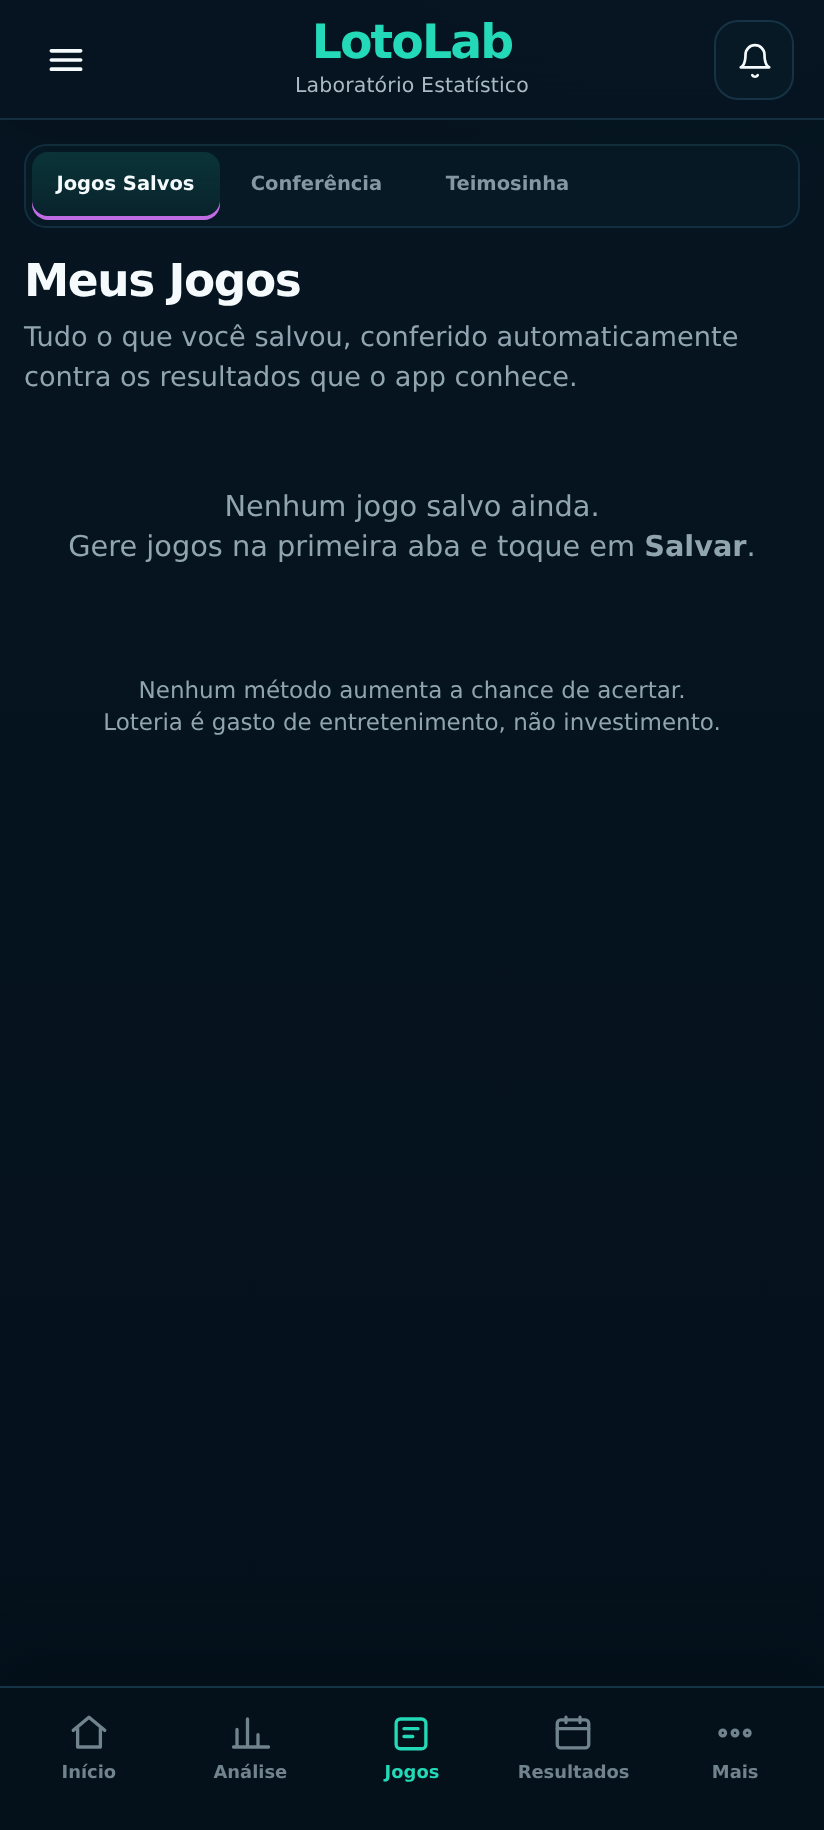
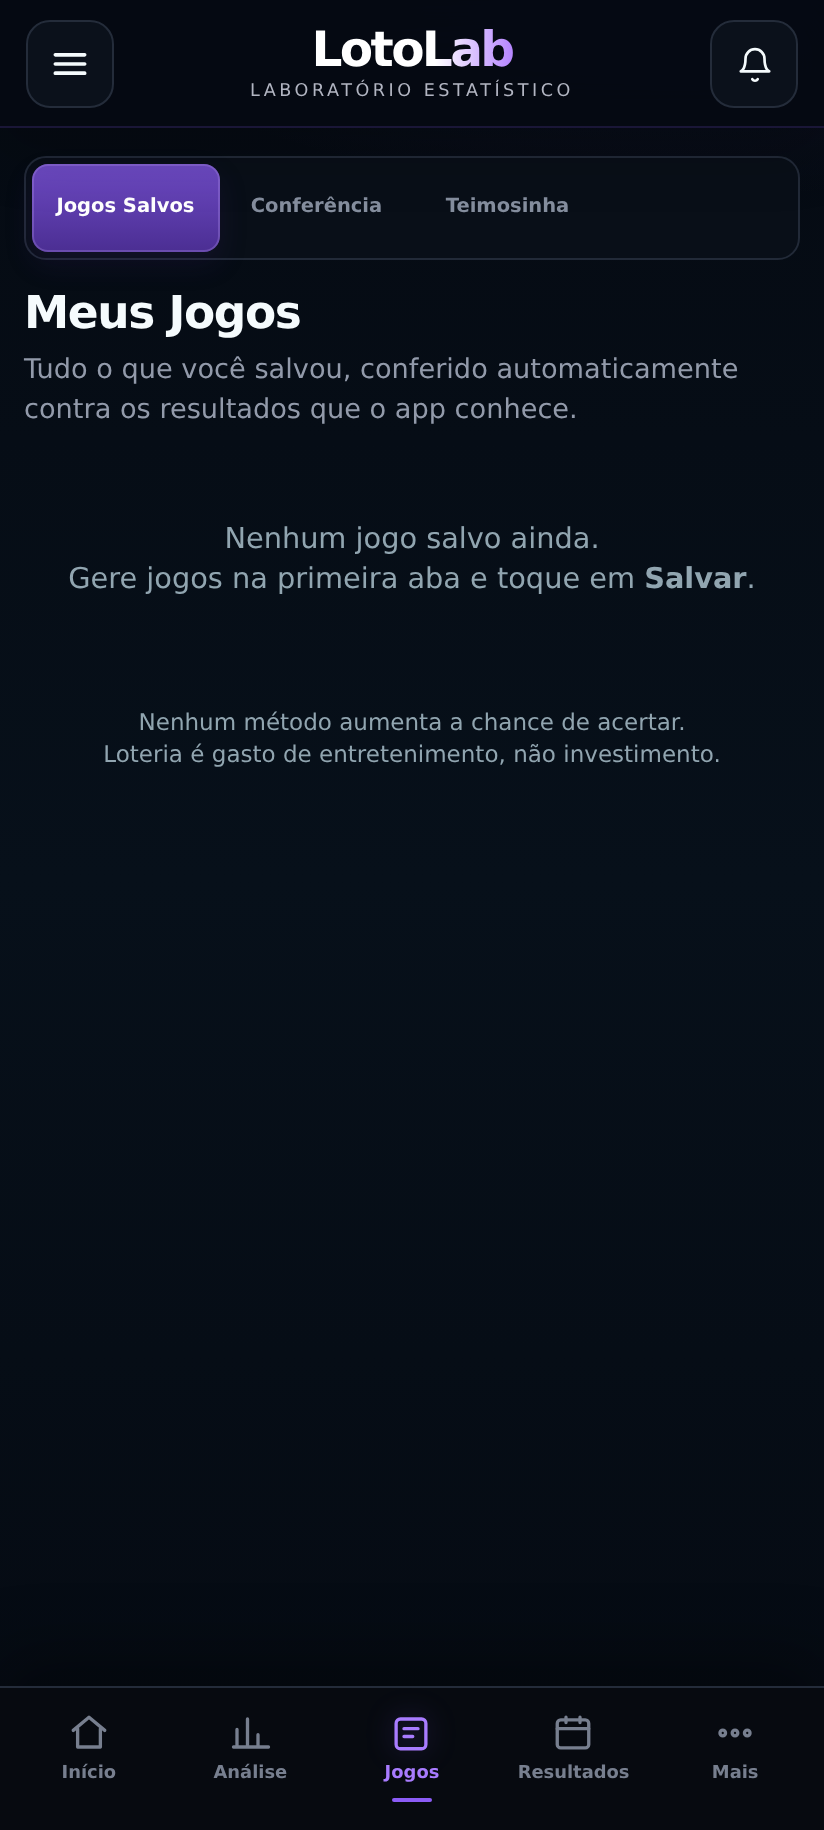
Refino V4.3 e a notificação de coincidência de volta (#58)
Refino da V4.3, só com CSS: o roxo volta a ser a identidade global (o acento
seguia a modalidade e repintava a interface inteira), foco de teclado visível
(devolvia outline:none), alvo de toque em 44px (estava entre 33 e 39px) e uma
escala única de raio de borda (havia quatro valores convivendo).

Duas correções precisaram de classe repetida: .hero-card .primary-btn e
.resumo .kpi têm especificidade maior e ganhavam mesmo com !important e vindo
depois na cascata.

Nova seção F10 cobrando a regra nas três larguras, mais o acento roxo, a cor de
contexto preservada nas oito modalidades e o anel de foco com Tab de verdade
pelo protocolo. Conferidos ao contrário.

Junto vai a notificação de coincidência, que eu tinha removido por engano da
edição estatística ao recortar os fluxos de aposta — é medida, não prêmio. E o
texto deixou de dizer "premiado": o app compara conjuntos guardados com
concursos publicados, não sabe se o bilhete foi comprado.

Motor 668/668 · interface 107/107 · dourada idêntica.

diff --git a/ui/lotolab-ui-v4-3.css b/ui/lotolab-ui-v4-3.css
@@ -160,3 +160,109 @@ select:focus,input:focus{border-color:rgba(139,92,246,.72)!important;box-shadow:
   .bola,.ball{width:31px!important;height:31px!important}
 }
 @media(prefers-reduced-motion:reduce){*{scroll-behavior:auto!important}}
+
+/* ====================================================================
+   V4.3 — refino
+   Quatro defeitos medidos na interface real, aos 360, 390 e 430px.
+   Nada aqui toca motor, dados ou fluxo: é folha de estilo.
+   ==================================================================== */
+
+/* 1. O ROXO VOLTA A SER A IDENTIDADE GLOBAL.
+
+   Medido: `--ll-mod`, que pinta acentos por toda a interface, nascia teal
+   (#24D9B7) e passava a valer a cor da modalidade escolhida — verde inteiro na
+   Mega-Sena, lilás inteiro na Lotofácil. Era a regra da V4.2, quando a cor da
+   modalidade era a identidade.
+
+   Na V4.3 a identidade é o roxo, e a cor da modalidade é contexto. Então o
+   acento global passa a ser roxo em qualquer modalidade, e a cor da modalidade
+   segue viva onde ela informa: no indicador, nas dezenas dos resultados e no
+   estado selecionado. É por isso que `--ll-chip` NÃO é tocado aqui. */
+:root,
+body:has([data-mod][aria-pressed="true"]){
+  --ll-mod:var(--ll43-purple)!important;
+  --ll-mod-soft:var(--ll43-purple-soft)!important;
+  --ll-mod-border:rgba(139,92,246,.46)!important;
+  --ll-mod-text:#CDB4FF!important;
+}
+
+/* 2. FOCO DE TECLADO VISÍVEL.
+
+   Medido: botão com foco devolvia `outline: none 0px` e `box-shadow: none` —
+   quem navega por teclado não tinha como saber onde estava. A bateria já
+   cobrava que o foco ALCANÇA os controles; não cobrava que ele APARECE.
+
+   :focus-visible, e não :focus, para o anel não piscar a cada toque no celular. */
+:where(button,a[href],input,select,textarea,[tabindex]):focus-visible{
+  outline:2px solid var(--ll43-purple)!important;
+  outline-offset:2px!important;
+  border-radius:10px;
+}
+
+/* 3. ALVO DE TOQUE DE 44px.
+
+   Medido nas três larguras: abas de segmento 34px, chips 33px, ".acao mini"
+   37px, ".acao-tela" 38px. Todos abaixo do mínimo confortável para o dedo.
+
+   min-height em vez de height: o conteúdo manda quando for maior, e nada
+   encolhe. Onde o elemento é pequeno por desenho — o ícone do cabeçalho —, o
+   alvo cresce sem o desenho crescer. */
+/* Classe repetida de propósito. A camada anterior fixa
+   `.primary-btn,.hero-card .primary-btn{min-height:37px!important}`, e o botão
+   da tela inicial FICA dentro de .hero-card — ou seja, o seletor que vale ali
+   tem especificidade (0,2,0) e ganha do meu (0,1,0), mesmo eu vindo depois e
+   também com !important. Repetir a classe empata a especificidade e a ordem
+   decide, que é o comportamento que eu esperava desde o começo.
+
+   Medido antes de escrever: o computado continuava 37px com a regra simples. */
+.acao.acao,.chip.chip,.primary-btn.primary-btn,
+.segmento button,.abas-seg button,.filtros button{
+  min-height:44px!important;
+}
+.acao-tela.acao-tela{min-width:44px!important;min-height:44px!important}
+
+/* Os dois ícones do cabeçalho ficavam em 40px porque a coluna da grade tem
+   42px. Subir só o botão o faria transbordar a coluna, então sobem juntos.
+   A 360px isto deixa 272px para o título, que continua sobrando. */
+.cabeca{grid-template-columns:44px 1fr 44px!important}
+.menu.menu,.sino.sino{width:44px!important;height:44px!important}
+.chip{padding-top:0!important;padding-bottom:0!important;display:inline-flex!important;
+  align-items:center!important}
+
+/* 4. RAIO DE BORDA COM ESCALA ÚNICA.
+
+   Medido: 11, 12, 15 e 17px convivendo em elementos do mesmo peso visual.
+   Quatro valores para a mesma família é ruído que se vê sem saber nomear.
+
+   Duas medidas, e só: 14px para superfície (cartão, painel, nota, ficha) e
+   10px para controle (campo, chip, botão pequeno). */
+:root{--ll43-r-superficie:14px;--ll43-r-controle:10px}
+.carta,.panel,.painel,.nota,.ficha,.kpi,.card,.activity-item,.item,
+.draw-card,.concurso,
+/* .hero-card vinha com 17px e .mini-card com 12px — os dois últimos fora da
+   escala, medidos na tela inicial. São superfície como as outras. */
+.hero-card.hero-card,.mini-card.mini-card,
+/* `.resumo .kpi` (0,2,0) fixa 12px e ganharia de um `.kpi` solto. Só aparece
+   no Placar quando há jogo salvo — a varredura da tela vazia não o via, e foi
+   o teste novo, rodando depois das seções que criam dados, que o pegou. */
+.resumo .kpi{border-radius:var(--ll43-r-superficie)!important}
+select,input[type=number],input[type=text],input[type=date],.search,
+.acao.mini,.chip{border-radius:var(--ll43-r-controle)!important}
+
+/* 5. O ESTADO DO RESULTADO NÃO DEPENDE DE COR.
+
+   O selo já traz o texto ("com ganhador" / "sem ganhador — acumulou"), e é
+   isso que sustenta a leitura de quem não distingue verde de amarelo. Aqui a
+   cor só reforça, com os tons da V4.3, e o peso extra separa os dois estados
+   também pela forma. */
+.selo-ganho.ganhou{
+  color:var(--ll43-winner)!important;
+  border-color:color-mix(in srgb,var(--ll43-winner) 46%,transparent)!important;
+  background:color-mix(in srgb,var(--ll43-winner) 13%,transparent)!important;
+}
+.selo-ganho.acumulou{
+  color:var(--ll43-rollover)!important;
+  border-color:color-mix(in srgb,var(--ll43-rollover) 48%,transparent)!important;
+  background:color-mix(in srgb,var(--ll43-rollover) 14%,transparent)!important;
+}
+.selo-ganho.desconhecido{font-style:italic!important}

diff --git a/www/ui/lotolab-ui-v4-3.css b/www/ui/lotolab-ui-v4-3.css
@@ -160,3 +160,109 @@ select:focus,input:focus{border-color:rgba(139,92,246,.72)!important;box-shadow:
   .bola,.ball{width:31px!important;height:31px!important}
 }
 @media(prefers-reduced-motion:reduce){*{scroll-behavior:auto!important}}
+
+/* ====================================================================
+   V4.3 — refino
+   Quatro defeitos medidos na interface real, aos 360, 390 e 430px.
+   Nada aqui toca motor, dados ou fluxo: é folha de estilo.
+   ==================================================================== */
+
+/* 1. O ROXO VOLTA A SER A IDENTIDADE GLOBAL.
+
+   Medido: `--ll-mod`, que pinta acentos por toda a interface, nascia teal
+   (#24D9B7) e passava a valer a cor da modalidade escolhida — verde inteiro na
+   Mega-Sena, lilás inteiro na Lotofácil. Era a regra da V4.2, quando a cor da
+   modalidade era a identidade.
+
+   Na V4.3 a identidade é o roxo, e a cor da modalidade é contexto. Então o
+   acento global passa a ser roxo em qualquer modalidade, e a cor da modalidade
+   segue viva onde ela informa: no indicador, nas dezenas dos resultados e no
+   estado selecionado. É por isso que `--ll-chip` NÃO é tocado aqui. */
+:root,
+body:has([data-mod][aria-pressed="true"]){
+  --ll-mod:var(--ll43-purple)!important;
+  --ll-mod-soft:var(--ll43-purple-soft)!important;
+  --ll-mod-border:rgba(139,92,246,.46)!important;
+  --ll-mod-text:#CDB4FF!important;
+}
+
+/* 2. FOCO DE TECLADO VISÍVEL.
+
+   Medido: botão com foco devolvia `outline: none 0px` e `box-shadow: none` —
+   quem navega por teclado não tinha como saber onde estava. A bateria já
+   cobrava que o foco ALCANÇA os controles; não cobrava que ele APARECE.
+
+   :focus-visible, e não :focus, para o anel não piscar a cada toque no celular. */
+:where(button,a[href],input,select,textarea,[tabindex]):focus-visible{
+  outline:2px solid var(--ll43-purple)!important;
+  outline-offset:2px!important;
+  border-radius:10px;
+}
+
+/* 3. ALVO DE TOQUE DE 44px.
+
+   Medido nas três larguras: abas de segmento 34px, chips 33px, ".acao mini"
+   37px, ".acao-tela" 38px. Todos abaixo do mínimo confortável para o dedo.
+
+   min-height em vez de height: o conteúdo manda quando for maior, e nada
+   encolhe. Onde o elemento é pequeno por desenho — o ícone do cabeçalho —, o
+   alvo cresce sem o desenho crescer. */
+/* Classe repetida de propósito. A camada anterior fixa
+   `.primary-btn,.hero-card .primary-btn{min-height:37px!important}`, e o botão
+   da tela inicial FICA dentro de .hero-card — ou seja, o seletor que vale ali
+   tem especificidade (0,2,0) e ganha do meu (0,1,0), mesmo eu vindo depois e
+   também com !important. Repetir a classe empata a especificidade e a ordem
+   decide, que é o comportamento que eu esperava desde o começo.
+
+   Medido antes de escrever: o computado continuava 37px com a regra simples. */
+.acao.acao,.chip.chip,.primary-btn.primary-btn,
+.segmento button,.abas-seg button,.filtros button{
+  min-height:44px!important;
+}
+.acao-tela.acao-tela{min-width:44px!important;min-height:44px!important}
+
+/* Os dois ícones do cabeçalho ficavam em 40px porque a coluna da grade tem
+   42px. Subir só o botão o faria transbordar a coluna, então sobem juntos.
+   A 360px isto deixa 272px para o título, que continua sobrando. */
+.cabeca{grid-template-columns:44px 1fr 44px!important}
+.menu.menu,.sino.sino{width:44px!important;height:44px!important}
+.chip{padding-top:0!important;padding-bottom:0!important;display:inline-flex!important;
+  align-items:center!important}
+
+/* 4. RAIO DE BORDA COM ESCALA ÚNICA.
+
+   Medido: 11, 12, 15 e 17px convivendo em elementos do mesmo peso visual.
+   Quatro valores para a mesma família é ruído que se vê sem saber nomear.
+
+   Duas medidas, e só: 14px para superfície (cartão, painel, nota, ficha) e
+   10px para controle (campo, chip, botão pequeno). */
+:root{--ll43-r-superficie:14px;--ll43-r-controle:10px}
+.carta,.panel,.painel,.nota,.ficha,.kpi,.card,.activity-item,.item,
+.draw-card,.concurso,
+/* .hero-card vinha com 17px e .mini-card com 12px — os dois últimos fora da
+   escala, medidos na tela inicial. São superfície como as outras. */
+.hero-card.hero-card,.mini-card.mini-card,
+/* `.resumo .kpi` (0,2,0) fixa 12px e ganharia de um `.kpi` solto. Só aparece
+   no Placar quando há jogo salvo — a varredura da tela vazia não o via, e foi
+   o teste novo, rodando depois das seções que criam dados, que o pegou. */
+.resumo .kpi{border-radius:var(--ll43-r-superficie)!important}
+select,input[type=number],input[type=text],input[type=date],.search,
+.acao.mini,.chip{border-radius:var(--ll43-r-controle)!important}
+
+/* 5. O ESTADO DO RESULTADO NÃO DEPENDE DE COR.
+
+   O selo já traz o texto ("com ganhador" / "sem ganhador — acumulou"), e é
+   isso que sustenta a leitura de quem não distingue verde de amarelo. Aqui a
+   cor só reforça, com os tons da V4.3, e o peso extra separa os dois estados
+   também pela forma. */
+.selo-ganho.ganhou{
+  color:var(--ll43-winner)!important;
+  border-color:color-mix(in srgb,var(--ll43-winner) 46%,transparent)!important;
+  background:color-mix(in srgb,var(--ll43-winner) 13%,transparent)!important;
+}
+.selo-ganho.acumulou{
+  color:var(--ll43-rollover)!important;
+  border-color:color-mix(in srgb,var(--ll43-rollover) 48%,transparent)!important;
+  background:color-mix(in srgb,var(--ll43-rollover) 14%,transparent)!important;
+}
+.selo-ganho.desconhecido{font-style:italic!important}

diff --git a/index.html b/index.html
@@ -4062,12 +4062,10 @@ function conferenciaAutomatica(){
            QUANTO foi. Melhor = mais acertos; empate fica com o primeiro. */
         if(!melhor || acertos > melhor.acertos)
           melhor = {acertos, modalidade:j.modalidade, concurso:r.concurso, jogo:j.id};
-        /*<aposta>*/
         const nome = MODALIDADES[j.modalidade].nome;
-        avisar("premio", `${nome}: ${faixa} acerto${faixa===1?"":"s"}`,
-          `Concurso ${r.concurso} — o jogo ${j.dezenas.map(pad).join(" ")} está numa faixa de prêmio. Confira no volante oficial antes de comemorar.`,
-          `premio:${j.id}:${r.concurso}`);
-        /*</aposta>*/
+        avisar("premio", `${nome}: ${faixa} coincidência${faixa===1?"":"s"}`,
+          `Concurso ${r.concurso} — o jogo ${j.dezenas.map(pad).join(" ")} coincidiu em ${faixa} dezena${faixa===1?"":"s"}.${/*<aposta>*/""} É uma faixa de prêmio: confira no volante oficial antes de comemorar.${/*</aposta>*/""}`,
+          `coincidencia:${j.id}:${r.concurso}`);
       }
     });
   });
@@ -4096,16 +4094,25 @@ function aoMudarHistorico(quantosConcursos, origem){
   /* O aviso do prêmio vem depois e separado do aviso de concurso novo, e diz
      de quanto foi: "seu jogo foi premiado" sem número manda a pessoa abrir o
      app para descobrir que acertou 11 na Lotofácil. */
-/*<aposta>*/
+  /* Esta notificação é COMPARAÇÃO, não prêmio, e por isso vive nas duas
+     edições. Chegou a sair da edição estatística junto com os blocos de
+     aposta — erro meu de recorte: "seu conjunto coincidiu em 13 dezenas no
+     concurso 3765" é medida, e medida é o que aquela edição existe para
+     mostrar. O que não pode aparecer ali é faixa e dinheiro.
+
+     O texto também deixou de dizer "premiado" na edição completa. O app não
+     sabe se a pessoa comprou o bilhete — ele compara conjuntos guardados com
+     concursos publicados. Anunciar prêmio a partir disso afirma o que não foi
+     medido, e o texto antigo já se contradizia pedindo para conferir no
+     volante antes de comemorar. */
   if(r.premios){
     const detalhe = r.melhor
-      ? `${r.melhor.acertos} acertos na ${MODALIDADES[r.melhor.modalidade].nome}, concurso ${r.melhor.concurso}.`
+      ? `${r.melhor.acertos} coincidências na ${MODALIDADES[r.melhor.modalidade].nome}, concurso ${r.melhor.concurso}.`
       : "Abra o LotoLab para ver qual jogo e qual concurso.";
     notificarSistema(
-      r.premios === 1 ? "Seu jogo foi premiado" : `${r.premios} jogos premiados`,
-      detalhe, `premio:${Date.now()}`, "conferir");
+      r.premios === 1 ? "Um jogo seu coincidiu" : `${r.premios} jogos seus coincidiram`,
+      detalhe, `coincidencia:${Date.now()}`, "conferir");
   }
-/*</aposta>*/
   if(S.autoAnalise !== false) analisarPendentes();
   /* Reagenda o alarme do próximo sorteio: a data mudou agora que entrou
      concurso novo, e o lembrete antigo apontava para uma data que já passou. */

diff --git a/www/index.html b/www/index.html
@@ -4062,12 +4062,10 @@ function conferenciaAutomatica(){
            QUANTO foi. Melhor = mais acertos; empate fica com o primeiro. */
         if(!melhor || acertos > melhor.acertos)
           melhor = {acertos, modalidade:j.modalidade, concurso:r.concurso, jogo:j.id};
-        /*<aposta>*/
         const nome = MODALIDADES[j.modalidade].nome;
-        avisar("premio", `${nome}: ${faixa} acerto${faixa===1?"":"s"}`,
-          `Concurso ${r.concurso} — o jogo ${j.dezenas.map(pad).join(" ")} está numa faixa de prêmio. Confira no volante oficial antes de comemorar.`,
-          `premio:${j.id}:${r.concurso}`);
-        /*</aposta>*/
+        avisar("premio", `${nome}: ${faixa} coincidência${faixa===1?"":"s"}`,
+          `Concurso ${r.concurso} — o jogo ${j.dezenas.map(pad).join(" ")} coincidiu em ${faixa} dezena${faixa===1?"":"s"}.${/*<aposta>*/""} É uma faixa de prêmio: confira no volante oficial antes de comemorar.${/*</aposta>*/""}`,
+          `coincidencia:${j.id}:${r.concurso}`);
       }
     });
   });
@@ -4096,16 +4094,25 @@ function aoMudarHistorico(quantosConcursos, origem){
   /* O aviso do prêmio vem depois e separado do aviso de concurso novo, e diz
      de quanto foi: "seu jogo foi premiado" sem número manda a pessoa abrir o
      app para descobrir que acertou 11 na Lotofácil. */
-/*<aposta>*/
+  /* Esta notificação é COMPARAÇÃO, não prêmio, e por isso vive nas duas
+     edições. Chegou a sair da edição estatística junto com os blocos de
+     aposta — erro meu de recorte: "seu conjunto coincidiu em 13 dezenas no
+     concurso 3765" é medida, e medida é o que aquela edição existe para
+     mostrar. O que não pode aparecer ali é faixa e dinheiro.
+
+     O texto também deixou de dizer "premiado" na edição completa. O app não
+     sabe se a pessoa comprou o bilhete — ele compara conjuntos guardados com
+     concursos publicados. Anunciar prêmio a partir disso afirma o que não foi
+     medido, e o texto antigo já se contradizia pedindo para conferir no
+     volante antes de comemorar. */
   if(r.premios){
     const detalhe = r.melhor
-      ? `${r.melhor.acertos} acertos na ${MODALIDADES[r.melhor.modalidade].nome}, concurso ${r.melhor.concurso}.`
+      ? `${r.melhor.acertos} coincidências na ${MODALIDADES[r.melhor.modalidade].nome}, concurso ${r.melhor.concurso}.`
       : "Abra o LotoLab para ver qual jogo e qual concurso.";
     notificarSistema(
-      r.premios === 1 ? "Seu jogo foi premiado" : `${r.premios} jogos premiados`,
-      detalhe, `premio:${Date.now()}`, "conferir");
+      r.premios === 1 ? "Um jogo seu coincidiu" : `${r.premios} jogos seus coincidiram`,
+      detalhe, `coincidencia:${Date.now()}`, "conferir");
   }
-/*</aposta>*/
   if(S.autoAnalise !== false) analisarPendentes();
   /* Reagenda o alarme do próximo sorteio: a data mudou agora que entrou
      concurso novo, e o lembrete antigo apontava para uma data que já passou. */
